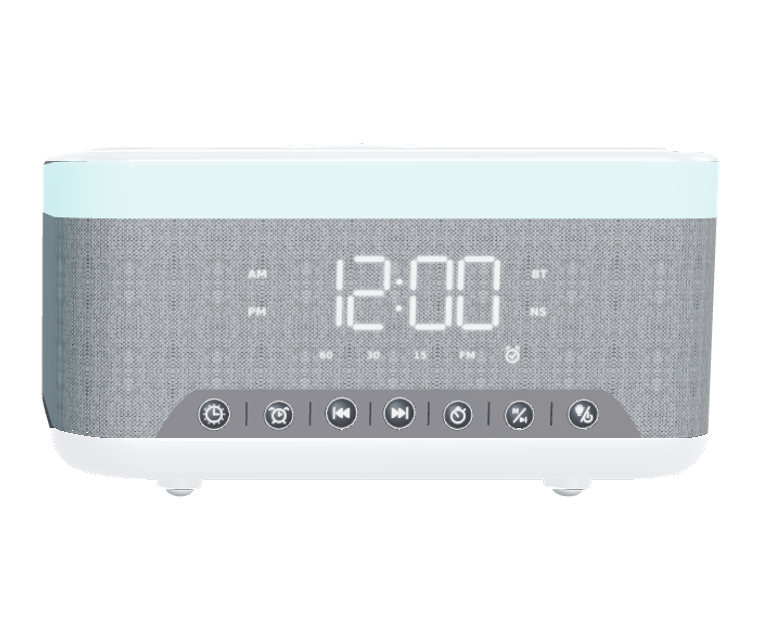
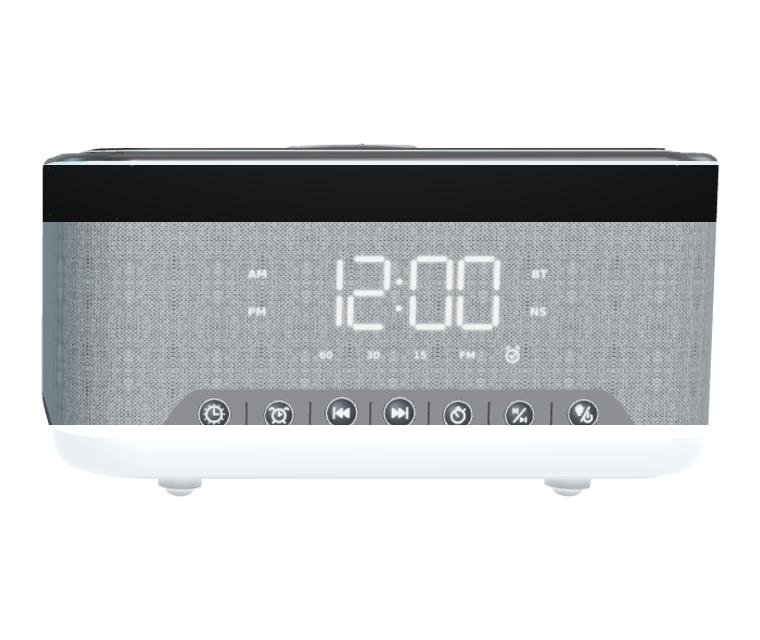
feat(speaker): make top border part black and hide lighting parts

diff --git a/src/utils/modelVariants.ts b/src/utils/modelVariants.ts
@@ -1,17 +1,19 @@
 import * as THREE from 'three';
 
-// Node name prefixes for top surface parts
-const TOP_NODE_PREFIXES = [
-  'top-outer-trim',
-  'top-inset-light-guide',
+// Node name prefixes for the inner top wireless charging surface (becomes white in white variant)
+const TOP_SURFACE_PREFIXES = [
   'top-smooth-panel',
   'wireless-pad-outer-ring',
   'wireless-pad-raised-disc',
   'wireless-pad-embossed-bolt',
 ];
 
-// Node name suffixes for top rim housing above fabric
-const TOP_RIM_HASHES = [
+// Node name prefixes & hashes for the top border / outer trim (kept sleek black in both variants)
+const TOP_BORDER_PREFIXES = [
+  'top-outer-trim',
+];
+
+const TOP_BORDER_HASHES = [
   '0eedc6',
   '2039bf',
   '1d0ba4',
@@ -39,17 +41,18 @@ const BOTTOM_PREFIXES = [
 ];
 
 /**
- * Traverses speaker model scene, deepens the fabric tone, and configures
- * dual-variant (Black / White) materials on the top surface and bottom base.
+ * Traverses speaker model scene, deepens the fabric tone, configures
+ * dual-variant (Black / White) materials on the inner top charging surface
+ * and bottom base, keeps the top border black, and makes lighting parts invisible.
  */
 export function setupSpeakerModel(content: THREE.Object3D) {
   content.traverse((child) => {
     const mesh = child as THREE.Mesh;
     if (!mesh.isMesh || !mesh.material) return;
     const name = mesh.name || '';
+    const mats = Array.isArray(mesh.material) ? mesh.material : [mesh.material];
 
     // Gently deepen the speaker fabric so it has a rich heather grey tone matching product photo
-    const mats = Array.isArray(mesh.material) ? mesh.material : [mesh.material];
     mats.forEach((mat) => {
       const m = mat as THREE.MeshStandardMaterial;
       if (
@@ -62,16 +65,54 @@ export function setupSpeakerModel(content: THREE.Object3D) {
       }
     });
 
-    const isTop =
-      TOP_NODE_PREFIXES.some((p) => name.startsWith(p)) ||
-      TOP_RIM_HASHES.some((h) => name.includes(h));
+    // 1. Lighting parts: make invisible / turned off
+    // Top inset light guide ring: completely invisible
+    if (name.startsWith('top-inset-light-guide')) {
+      mesh.visible = false;
+      return;
+    }
 
+    // Housing light band: turn off emissive cyan glow and blend invisibly into dark continuous housing
+    if (name.includes('476999') || name.includes('51381b')) {
+      mats.forEach((mat) => {
+        const m = mat as THREE.MeshStandardMaterial;
+        if (m) {
+          if (m.emissive) m.emissive.setRGB(0, 0, 0);
+          if (m.color) m.color.setRGB(0.015, 0.015, 0.023);
+          m.roughness = 0.36;
+          m.metalness = 0.08;
+          m.needsUpdate = true;
+        }
+      });
+      return;
+    }
+
+    // 2. Top border part: ensure rich sleek black in both variants
+    const isTopBorder =
+      TOP_BORDER_PREFIXES.some((p) => name.startsWith(p)) ||
+      TOP_BORDER_HASHES.some((h) => name.includes(h));
+
+    if (isTopBorder) {
+      mats.forEach((mat) => {
+        const m = mat as THREE.MeshStandardMaterial;
+        if (m && m.color) {
+          m.color.setRGB(0.012, 0.014, 0.016);
+          m.roughness = 0.28;
+          m.metalness = 0.15;
+          m.needsUpdate = true;
+        }
+      });
+      return;
+    }
+
+    // 3. Dual-variant parts: inner top surface & bottom base
+    const isTopSurface = TOP_SURFACE_PREFIXES.some((p) => name.startsWith(p));
     const isBottom =
       BOTTOM_BASE_HASHES.some((h) => name.includes(h)) ||
       BOTTOM_PREFIXES.some((p) => name.startsWith(p));
 
-    if (isTop || isBottom) {
-      mesh.userData.isSpeakerTop = isTop;
+    if (isTopSurface || isBottom) {
+      mesh.userData.isSpeakerSurface = isTopSurface;
       mesh.userData.isSpeakerBottom = isBottom;
 
       // Cache a clone of original default (black) material
@@ -85,11 +126,6 @@ export function setupSpeakerModel(content: THREE.Object3D) {
         whiteMat.color.setRGB(0.74, 0.77, 0.80);
         whiteMat.roughness = 0.45;
         whiteMat.metalness = 0.04;
-      } else if (name.startsWith('top-inset-light-guide')) {
-        // Frosted clean light guide ring
-        whiteMat.color.setRGB(0.92, 0.94, 0.96);
-        whiteMat.roughness = 0.30;
-        whiteMat.metalness = 0.02;
       } else if (name.startsWith('Recessed bottom vent') || name.startsWith('Vent molded edge')) {
         // Subtle depth shading in vents
         whiteMat.color.setRGB(0.88, 0.90, 0.92);
@@ -106,9 +142,9 @@ export function setupSpeakerModel(content: THREE.Object3D) {
         whiteMat.roughness = 0.42;
         whiteMat.metalness = 0.02;
       } else {
-        // Main top surface parts (trim, smooth panel, rings, rim) & bottom base housing
-        whiteMat.color.setRGB(0.94, 0.95, 0.96);
-        whiteMat.roughness = isTop ? 0.32 : 0.38;
+        // Inner top charging surface (smooth panel, outer ring, raised disc) & bottom base housing
+        whiteMat.color.setRGB(0.95, 0.96, 0.97);
+        whiteMat.roughness = isTopSurface ? 0.30 : 0.38;
         whiteMat.metalness = 0.02;
       }
       whiteMat.needsUpdate = true;
@@ -119,17 +155,23 @@ export function setupSpeakerModel(content: THREE.Object3D) {
 
 /**
  * Switch the speaker between 'black' (default) and 'white' variants instantly.
- * In white variant, top surface and bottom black parts become white, while the
- * heather grey woven fabric, LED clock, controls, and rubber feet remain intact.
+ * In white variant, inner top charging surface and bottom base become white,
+ * while the top border remains sleek black, lighting parts remain invisible,
+ * and the heather grey fabric, LED clock, and front controls remain intact.
  */
 export function applySpeakerVariant(root: THREE.Object3D, variant: 'black' | 'white') {
   root.traverse((child) => {
     const mesh = child as THREE.Mesh;
-    if (mesh.isMesh && (mesh.userData.isSpeakerTop || mesh.userData.isSpeakerBottom)) {
-      if (variant === 'white' && mesh.userData.whiteMat) {
-        mesh.material = mesh.userData.whiteMat;
-      } else if (mesh.userData.blackMat) {
-        mesh.material = mesh.userData.blackMat;
+    if (mesh.isMesh) {
+      if (mesh.name && mesh.name.startsWith('top-inset-light-guide')) {
+        mesh.visible = false;
+      }
+      if (mesh.userData.isSpeakerSurface || mesh.userData.isSpeakerBottom) {
+        if (variant === 'white' && mesh.userData.whiteMat) {
+          mesh.material = mesh.userData.whiteMat;
+        } else if (mesh.userData.blackMat) {
+          mesh.material = mesh.userData.blackMat;
+        }
       }
     }
   });
